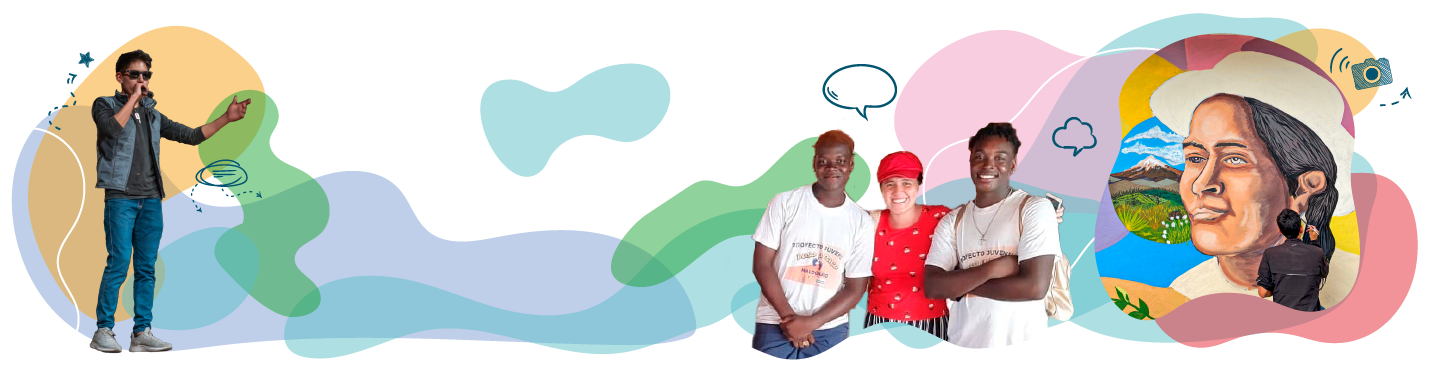
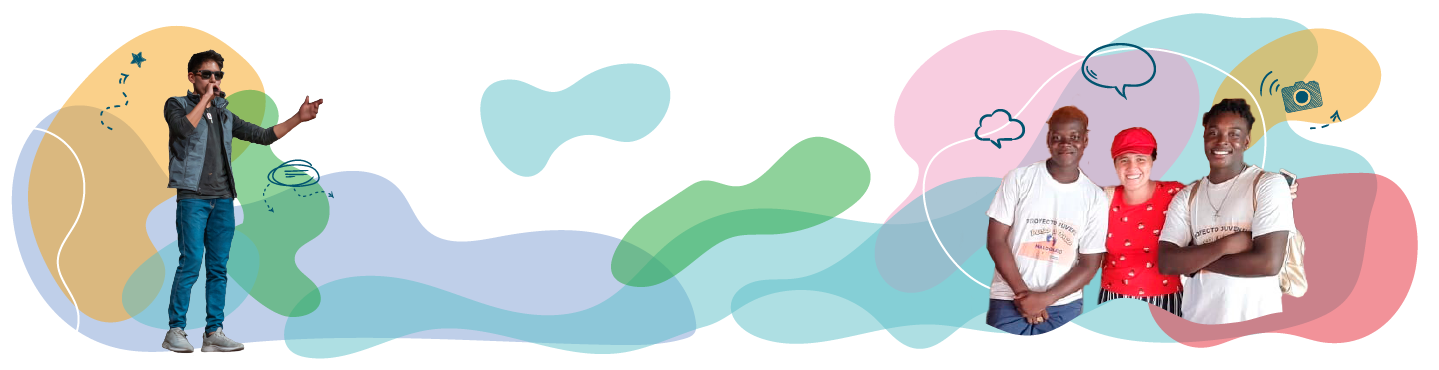
Image Grupo Nucleo changed

diff --git a/app/alza-tu-voz/page.tsx b/app/alza-tu-voz/page.tsx
@@ -162,12 +162,20 @@ export default function Home () {
 
       {/* ---------- Conócenos ---------- */}
       <section className="container mx-auto flex flex-col justify-center my-5 lg:my-10 px-8 md:px-16">
-        <h2 className='text-3xl text-left text-hcadarkblue font-marker font-bold mb-20'>¡Así nos organizamos para alzar nuestras voces!</h2>
+        <h2 className='text-3xl text-left text-hcadarkblue font-marker font-bold mb-10'>¡Así nos organizamos para alzar nuestras voces!</h2>
+        <p className='text-black text-justify'>
+          Para alzar nuestras voces, nos organizamos en un equipo poderoso, liderado por <a href="https://lab-xxi.com/" target='_blank' rel='noreferrer' className='underline text-hcalightblue'>LABXXI</a> y
+          aliados locales como la <a href="http://www.gadmriobamba.gob.ec/" target='_blank' rel='noreferrer' className='underline text-hcalightblue'>Alcaldía de Riobamba</a>,
+          la  <a href="https://quevedo.gob.ec/" target='_blank' rel='noreferrer' className='underline text-hcalightblue'>Alcaldía de Quevedo</a>,
+          la <a href="https://www.espoch.edu.ec/es/" target='_blank' rel='noreferrer' className='underline text-hcalightblue'>ESPOCH</a> y
+          la <a href="https://datalat.org" target='_blank' rel='noreferrer' className='underline text-hcalightblue'>Fundación Datalat</a>. Todas las acciones las realizamos junto con los grupos núcleos de jóvenes
+          creados en cada ciudad. ¡Juntos somos imparables!
+        </p>
         <Image
               src="/images/grupo-nucleo.png"
               alt="Foto grupo nucleo"
-              width={1352}
-              height={1381}
+              width={1304}
+              height={1333}
               priority
             />
 
